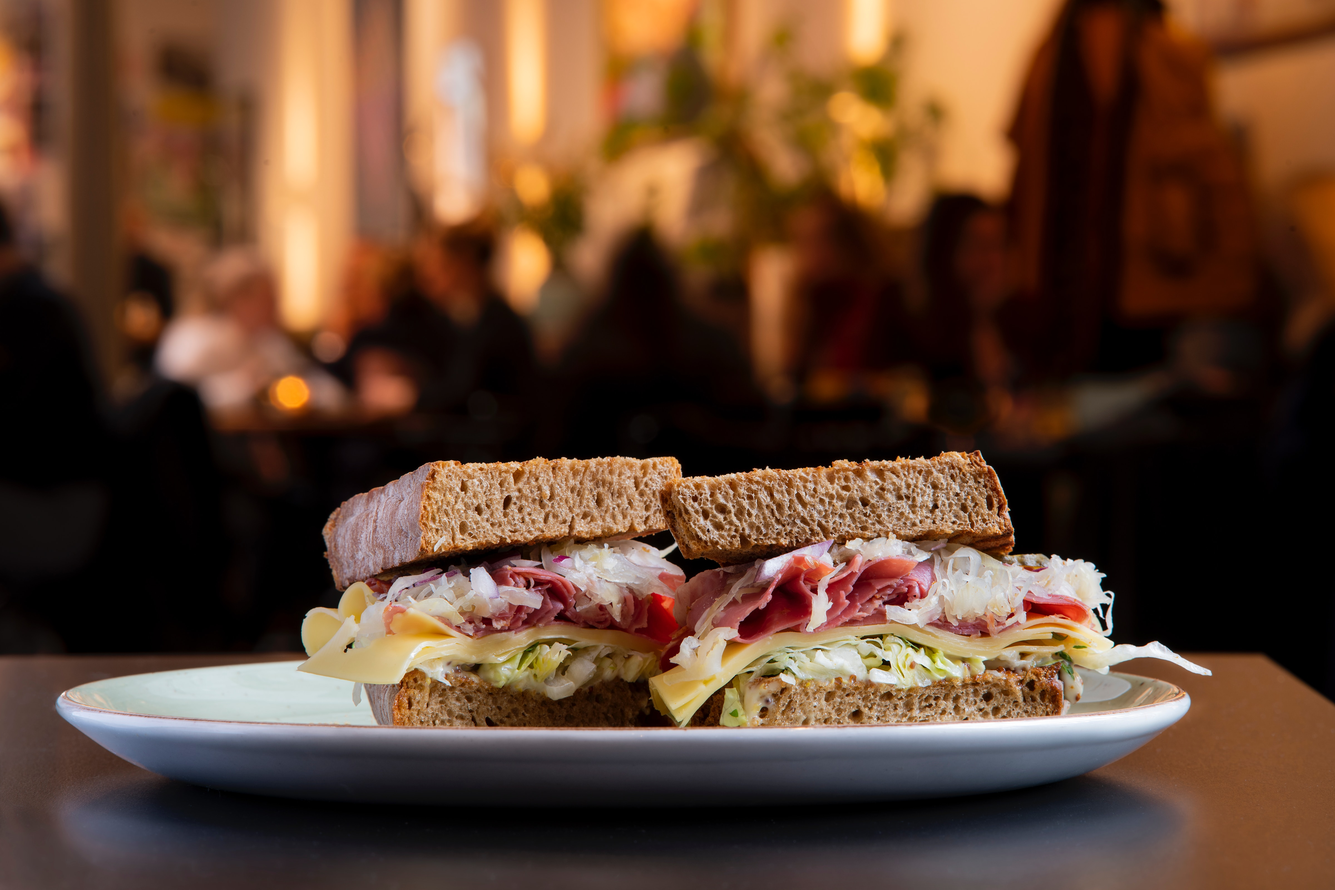
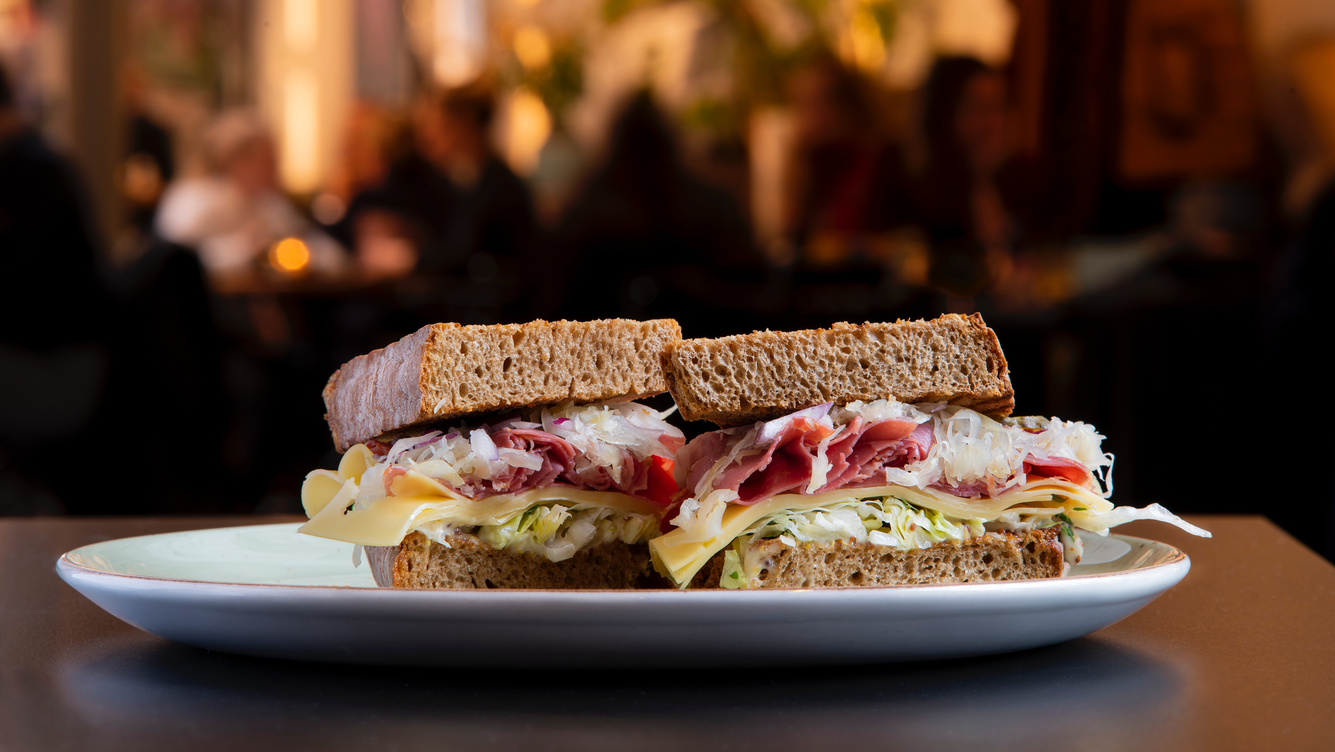
Receitas e Inicio Rodape

diff --git a/index.html b/index.html
@@ -13,6 +13,7 @@
     <script async custom-element="amp-lightbox" src="https://cdn.ampproject.org/v0/amp-lightbox-0.1.js"></script>
     <script async custom-element="amp-sidebar" src="https://cdn.ampproject.org/v0/amp-sidebar-0.1.js"></script>
     <script async custom-element="amp-carousel" src="https://cdn.ampproject.org/v0/amp-carousel-0.1.js"></script>
+    <script async custom-element="amp-selector" src="https://cdn.ampproject.org/v0/amp-selector-0.1.js"></script>
 
     <link href="https://fonts.googleapis.com/css?family=Playfair+Display:700|Roboto:400,700&display=swap" rel="stylesheet">
    
@@ -72,6 +73,7 @@
         :root {
           --lipstick: #e82147;
           --white: #fff;
+          --fair: PlayfairDisplay;
         }
 
         .amp-carousel-slide {
@@ -248,12 +250,24 @@
       }
       h2{
         
-        font-family: PlayfairDisplay;
+        font-family: var(--fair);
         font-size: 3em;
         font-weight: bold;
         text-align: center;
       }
       
+      #adorno_ultimas{
+        position: relative;
+      }
+      .adorno_u{
+        background: url('assets/Elemento_7.png') no-repeat;
+        position: absolute;
+        right: 5%;
+        top: 20%;
+        width: 135px;
+        height: 109px;
+      }
+
       #carrossel{
         margin: 60px auto;
         width: 100%;
@@ -295,13 +309,16 @@
         position: relative;
         box-shadow: 0 5px 5px 0 #797979;
         float: left;
-        width: 550px;
-        margin-right: 60px;
+        width: 500px;
+        margin-right: 100px;
         height: 240px;
         overflow: hidden;
         vertical-align: middle;
         position: relative;
         z-index: 0;
+      }
+      .prato_content img{
+        object-fit: cover;
       }
       .prato_txt{
         font-weight: bold;
@@ -337,6 +354,7 @@
       .dis{
         opacity: 0.1;
       }
+      
       .prato_hover{
         background: #fff url('assets/Seta_direita.png') 10px center no-repeat;
         width: 94%;
@@ -355,39 +373,122 @@
         transition:opacity 1s;
         opacity:1;
       }
-
-     
-
       .faixa{
         background: url('assets/Elemento_5@2x.png') no-repeat bottom center;
         width: 100%;
-        height: 20px;
-        margin-bottom: 80px;
+        height: 40px;
+        margin-bottom: 90px;
       }
       
-      .previa{
-        width: 200px;
-        float: left;
+      #mundo{
+        position: relative;
+        min-height: 410px;
+        margin-bottom:200px ;
       }
-      .previa button{
+      .mundo_adorno1{
+        background: url('assets/Elemtno_4.png') no-repeat bottom center;
+        position: absolute;
+        left: 10%;
+        top: 0%;
+        width: 84px;
+        height: 84px;
+      }
+      .mundo_adorno2{
+        background: url('assets/Elemento_6.png') no-repeat bottom center;
+        position: absolute;
+        right: 15%;
+        top: 50%;
+        width: 84px;
+        height: 84px;
+      }
+      #mundo h2{
+        margin-bottom: 60px;
+      }
+      #mundo .amp-carousel-button{
+        opacity: 0;
+      }
+      #previa{
+        width: 280px;
+        float: left;
+        font-weight: bold;
+        font-weight: bold;
+        font-size: 26px;
+      }
+      .itens{
         border: solid 0.5px #f0f0f0;
         background-color: var(--white);
         color: #a19b9b;
-        width: 100%;
-        margin: 10px 0;
-        box-shadow: 0 5px 25px 0 rgba(0, 0, 0, 0);
-        font-family: PlayfairDisplay;
-        font-size: 16px;
-      font-weight: bold;
+        width: 80%;
+        margin-bottom: 20px;
+        box-shadow: 0 5px 25px 0 rgba(0, 0, 0, 0) ;
+        padding: 30px 0px 30px 135px;
+        font-family: var(--fair);
       }
-      .previa button:hover{
+      
+      amp-selector [option][selected]{
+        box-shadow: 0 5px 25px 0 rgba(0, 0, 0, 0.16);
+        outline: none;
+        color: var(--lipstick);
+  
+      }
+      .itens:hover {
         color: var(--lipstick);
         border-color:  var(--lipstick);
-        box-shadow: 0 5px 25px 0 rgba(0, 0, 0, 0.16)
+        box-shadow: 0 5px 25px 0 #fff;
       }
-      .previa_g{
-        width: 550px;
+      .cozinha .itens{
+        background: url('assets/Cozinha.png') no-repeat;
+        background-position: 95px center;
+      }
+      .cozinha .itens:hover, .cozinha amp-selector [option][selected]{
+        background-image: url('assets/Cozinha_active.png')
+      }
+      .patisseria .itens{
+        background: url('assets/Patisserie.png') no-repeat;
+        background-position: 95px center;
+      }
+      .patisseria .itens:hover{
+        background-image: url('assets/Patisserie_active.png')
+      }
+      .drink .itens{
+        background: url('assets/Drinks.png') no-repeat;
+        background-position: 95px center;
+      }
+      .drink .itens:hover{
+        background-image: url('assets/Drinks_active.png')
+      }
+      
+      #previa_g{
+        width: 580px;
         float: right;
+        height: 303px;
+      }
+      #previa_g img{
+        object-fit: cover;
+      }
+
+      footer{
+        background: url('assets/Rodape@2x.png') no-repeat;
+        float: left;
+        width: 100%;
+        height: 305px;
+      }
+      #rodape{
+        width: 960px;
+        margin: 0 auto;
+      }
+      .logo{
+        font-family: PlayfairDisplay;
+        font-size: 30px;
+        font-weight: bold;
+        line-height: 1.32;
+        color: #000000;
+        float: left;
+        
+      }
+      .logo span {
+        color:var(--lipstick);
+        
       }
     </style>
 
@@ -511,7 +612,10 @@
           </div>
       </header>
       
-     
+      <div id="adorno_ultimas">
+
+       <div class="adorno_u"></div> 
+
        <main id="ultimas">
           <h2>
             Experimente algumas<br>
@@ -527,10 +631,9 @@
           <div class="item">
               <div class="prato_content">
                 <amp-img src="photos/Sandwich.jpg"
-                  width="550"
-                  height="200"
+                  width="480"
+                  height="240"
                   layout="responsive"
-                  heights="(min-width:500px) 250px, 60%"
                   alt="Sandwich">
                 </amp-img>
                 <div class="prato_hover">
@@ -560,8 +663,8 @@
               <div class="prato_content">
                 
                 <amp-img src="photos/Iogurte.jpg"
-                  width="1"
-                  height="1.8"
+                  width="480"
+                  height="240"
                   layout="responsive"
                   alt="Sandwich">
                 </amp-img>
@@ -591,70 +694,51 @@
           </amp-carousel>
         </main>
        
-      <div class="faixa"></div>
+        <div class="faixa"></div>
+      </div>
 
+      <div id="mundo">
+        <div class="mundo_adorno1"></div>
+        <div class="mundo_adorno2"></div>
         <main>
           <h2>Entre no mundo gastronômico</h2>
 
+         
+          <amp-selector id="previa"
+          class="carousel-preview"
+          on="select:previa_g.goToSlide(index=event.targetOption)"
+          layout="container">
 
-          <div class="previa">
-            <button on="tap:carousel-with-preview.goToSlide(index=0)">
-              <amp-img
-                src="assets/Cozinha.svg"
-                width="30"
-                height="30"
-                alt="cozinha"
-              ></amp-img>Cozinha
-            </button>
-            <button on="tap:carousel-with-preview.goToSlide(index=1)">
-              <amp-img
-                src="/static/inline-examples/images/image2.jpg"
-                width="60"
-                height="40"
-                alt="lemons"
-              ></amp-img>
-            </button>
-            <button on="tap:carousel-with-preview.goToSlide(index=2)">
-              <amp-img
-                src="/static/inline-examples/images/image3.jpg"
-                width="60"
-                height="40"
-                alt="blueberries"
-              ></amp-img>
-            </button>
-          </div>
+          <div class="cozinha"><div class="itens" option="0" selected>Cozinha</div></div>
+          <div class="patisseria"><div class="itens " option="1">Patisserie</div></div>
+          <div class="drink"><div class="itens" option="2">Drinks</div></div>
 
-          <amp-carousel
-            id="previa_g"
-            width="450"
+          </amp-selector>
+          
+          <amp-carousel id="previa_g"
+            width="500"
             height="300"
             layout="responsive"
             type="slides"
-          >
-            <amp-img
-              src="photos/Cozinha.jpg"
-              width="3"
-              height="0"
-              layout="responsive"
-              alt="apples"
-            ></amp-img>
-            <amp-img
-              src="photos/Cozinha.jpg"
-              width="450"
-              height="300"
-              layout="responsive"
-              alt="lemons"
-            ></amp-img>
-            <amp-img
-              src="photos/Cozinha.jpg"
-              width="450"
-              height="300"
-              layout="responsive"
-              alt="blueberries"
-            ></amp-img>
+            on="slideChange:previa.toggle(index=event.index, value=true)">
+            <amp-img src="photos/Cozinha.jpg"
+              layout="fill"
+              alt="a sample image"></amp-img>
+            <amp-img src="photos/Patisserie.jpg"
+              layout="fill"
+              alt="a sample image"></amp-img>
+            <amp-img src="photos/Drink.jpg"
+              layout="fill"
+              alt="a sample image"></amp-img>
           </amp-carousel>
 
         </main>
-
+      </div>
+      
+      <footer>
+        <div id="rodape">
+          <div class="logo">Cook<span>fy</span>fy</div>
+        </div>
+      </footer>
   </body>
 </html>
